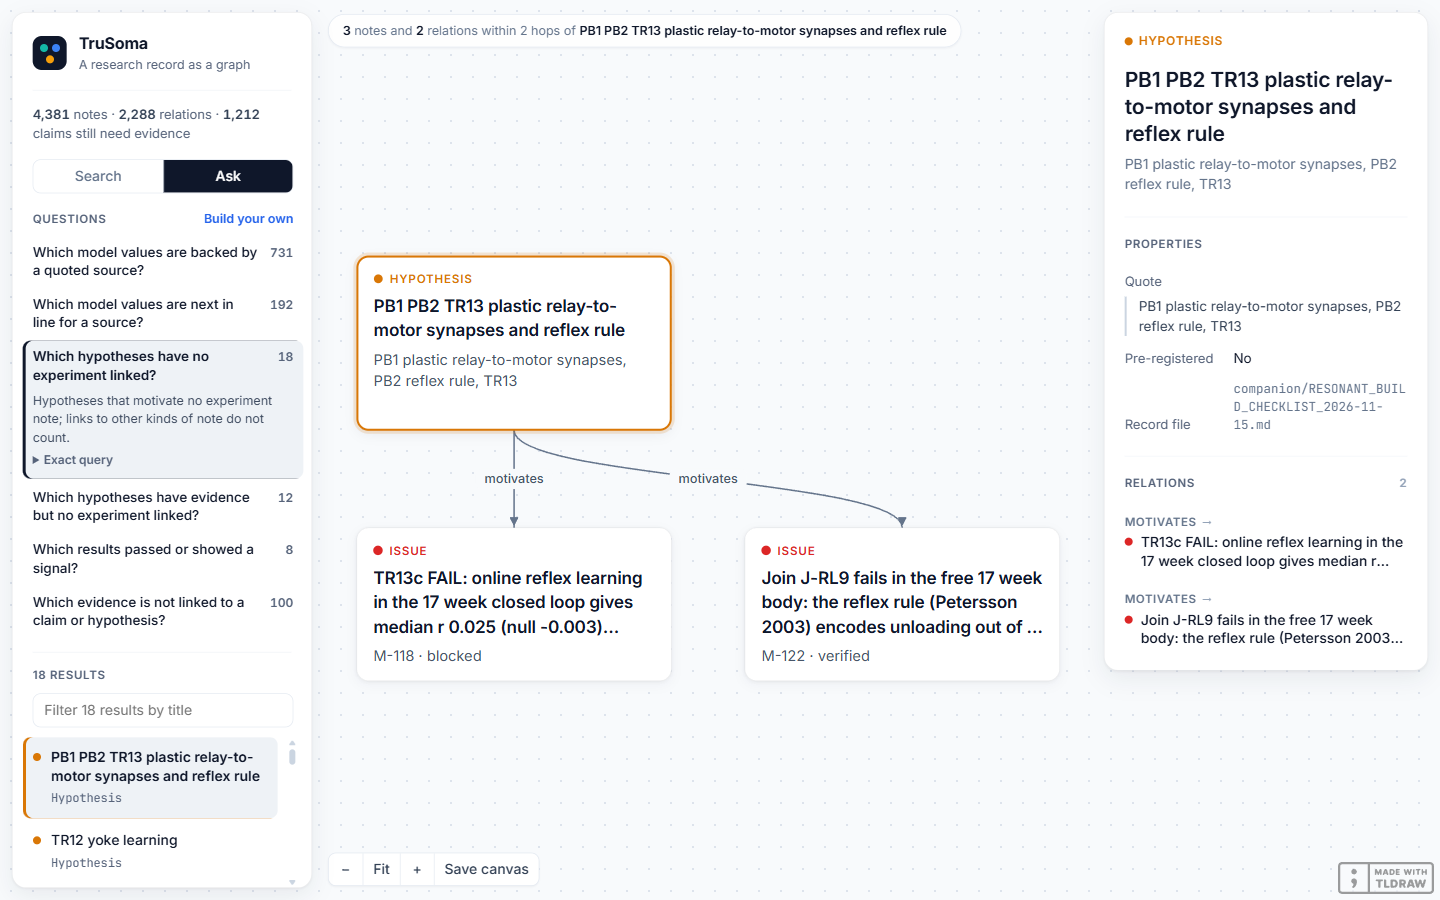
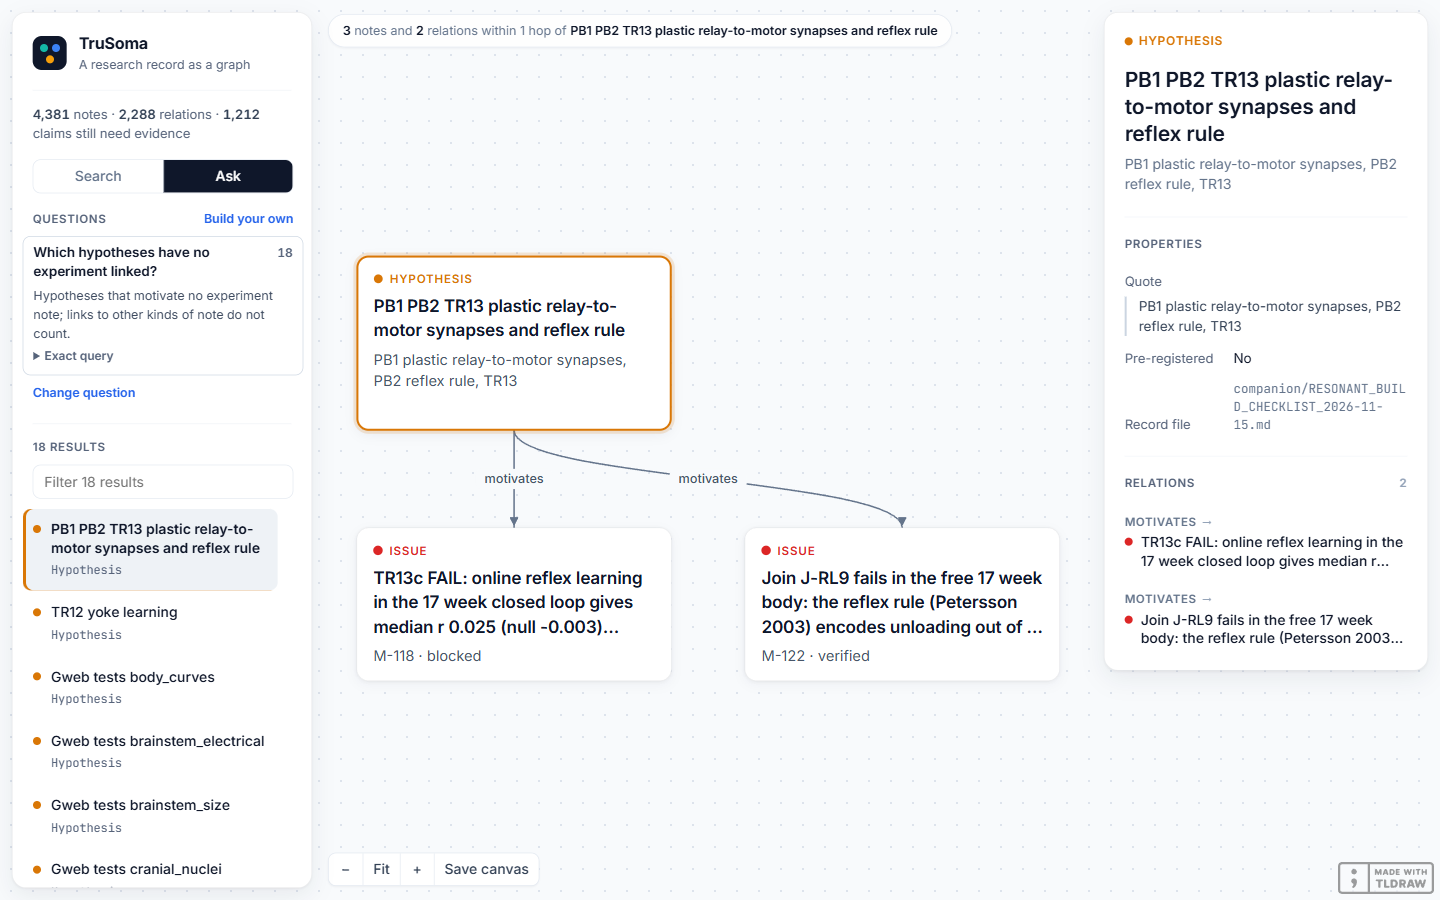
Ask: list folds to the active question; labelled builder; wider filter

Changed region(s): [[0.0, 0.2489, 0.1875, 0.7156], [0.0, 0.7467, 0.1875, 0.9956], [0.375, 0.0311, 0.6562, 0.0622]]

diff --git a/demo/apps/canvas/src/Ask.tsx b/demo/apps/canvas/src/Ask.tsx
@@ -2,7 +2,7 @@
  * Questions over the graph: preset ones, and one the reader builds from the grammar ("find notes of a type that have, or lack, a relation to or from a type").
  * Every question is a Query run by packages/graph/src/query.ts; the active preset states in one sentence exactly what it asks, and the builder's controls read as that sentence.
  */
-import type { ReactNode } from "react";
+import { useState, type ReactNode } from "react";
 import {
   describeQuery,
   PRESETS,
@@ -45,7 +45,7 @@ const Question = ({
   children?: ReactNode;
 }): JSX.Element => (
   <li
-    className={`rounded-lg ${active ? "bg-[#eef2f6] [box-shadow:inset_3px_0_0_#0f172a]" : "hover:bg-[#f8fafc]"}`}
+    className={`rounded-lg ${active ? "border border-solid border-[#cbd5e1] bg-white" : "border border-solid border-transparent hover:bg-[#f8fafc]"}`}
   >
     <button
       className={`grid w-full grid-cols-[minmax(0,1fr)_auto] items-baseline gap-x-2.5 rounded-lg border-0 bg-transparent px-2.5 py-[7px] text-left text-[13.5px] leading-[1.35] ${active ? "font-semibold" : "font-medium"}`}
@@ -61,29 +61,35 @@ const Question = ({
   </li>
 );
 
+/** One control of the builder: name is the word shown beside it, label the fuller name a screen reader hears. */
 const Pick = ({
+  name,
   label,
   value,
   options,
   onChange,
 }: {
+  name: string;
   label: string;
   value: string;
   options: { value: string; text: string }[];
   onChange: (value: string) => void;
 }): JSX.Element => (
-  <select
-    className={`${TW_SELECT} bg-white`}
-    aria-label={label}
-    value={value}
-    onChange={(e) => onChange(e.target.value)}
-  >
-    {options.map((o) => (
-      <option key={o.value} value={o.value}>
-        {o.text}
-      </option>
-    ))}
-  </select>
+  <label className="grid grid-cols-[4.25rem_minmax(0,1fr)] items-center gap-2">
+    <span className="text-[12px] font-semibold text-[#56637a]">{name}</span>
+    <select
+      className={`${TW_SELECT} bg-white`}
+      aria-label={label}
+      value={value}
+      onChange={(e) => onChange(e.target.value)}
+    >
+      {options.map((o) => (
+        <option key={o.value} value={o.value}>
+          {o.text}
+        </option>
+      ))}
+    </select>
+  </label>
 );
 
 export const Ask = ({
@@ -99,6 +105,10 @@ export const Ask = ({
   relationLabels: string[];
   onAsk: (asked: Asked) => void;
 }): JSX.Element => {
+  // a linked question opens folded to itself, so its answers are in view at once
+  const [open, setOpen] = useState(
+    () => !window.location.hash.startsWith("#ask="),
+  );
   const building = asked.id === CUSTOM;
   const custom = building ? asked.query : DEFAULT_CUSTOM;
   const condition = custom.where[0] ?? FIRST;
@@ -116,30 +126,31 @@ export const Ask = ({
   const picks = (
     <div className="grid gap-1.5" data-testid="builder">
       <Pick
+        name="Find"
         label="Find notes of type"
         value={custom.type}
-        options={nodeTypes.map((t) => ({ value: t, text: `Find ${t} notes` }))}
+        options={nodeTypes.map((t) => ({ value: t, text: `${t} notes` }))}
         onChange={(type) => build({ type })}
       />
       <Pick
+        name="Which"
         label="With or without"
         value={condition.has ? "has" : "has no"}
         options={[
-          { value: "has", text: "that have a relation" },
-          { value: "has no", text: "that have no relation" },
+          { value: "has", text: "have a relation" },
+          { value: "has no", text: "have no relation" },
         ]}
         onChange={(v) => build({ condition: { has: v === "has" } })}
       />
       <Pick
+        name="Relation"
         label="Relation"
         value={condition.relation}
-        options={relationLabels.map((l) => ({
-          value: l,
-          text: `labelled "${l}"`,
-        }))}
+        options={relationLabels.map((l) => ({ value: l, text: l }))}
         onChange={(relation) => build({ condition: { relation } })}
       />
       <Pick
+        name="Direction"
         label="Direction and type of the other note"
         value={`${condition.direction}|${condition.type}`}
         options={(["to", "from"] as const).flatMap((d) =>
@@ -184,27 +195,42 @@ export const Ask = ({
         picks
       ) : (
         <ul className="-mx-2.5 my-0 grid list-none gap-0.5 p-0">
-          {PRESETS.map((preset) => (
-            <Question
-              key={preset.id}
-              label={preset.question}
-              aside={(counts[preset.id] ?? 0).toLocaleString()}
-              active={asked.id === preset.id}
-              onPick={() => onAsk({ id: preset.id, query: preset.query })}
-            >
-              <p className="m-0 text-[12.5px] leading-normal text-[#3d4a5f]">
-                {preset.plain}
-              </p>
-              <details className="mt-1">
-                <summary className="cursor-pointer text-[12px] font-semibold text-[#56637a]">
-                  Exact query
-                </summary>
-                <p className={TW_EXACT} data-testid="asked">
-                  {describeQuery(preset.query)}
+          {PRESETS.filter((preset) => open || preset.id === asked.id).map(
+            (preset) => (
+              <Question
+                key={preset.id}
+                label={preset.question}
+                aside={(counts[preset.id] ?? 0).toLocaleString()}
+                active={asked.id === preset.id}
+                onPick={() => {
+                  setOpen(false);
+                  onAsk({ id: preset.id, query: preset.query });
+                }}
+              >
+                <p className="m-0 text-[12.5px] leading-normal text-[#3d4a5f]">
+                  {preset.plain}
                 </p>
-              </details>
-            </Question>
-          ))}
+                <details className="mt-1">
+                  <summary className="cursor-pointer text-[12px] font-semibold text-[#56637a]">
+                    Exact query
+                  </summary>
+                  <p className={TW_EXACT} data-testid="asked">
+                    {describeQuery(preset.query)}
+                  </p>
+                </details>
+              </Question>
+            ),
+          )}
+          {open ? null : (
+            <li>
+              <button
+                className="text-accent cursor-pointer border-0 bg-transparent px-2.5 py-1.5 text-[12.5px] font-semibold hover:underline"
+                onClick={() => setOpen(true)}
+              >
+                Change question
+              </button>
+            </li>
+          )}
         </ul>
       )}
     </div>

diff --git a/demo/apps/canvas/src/App.tsx b/demo/apps/canvas/src/App.tsx
@@ -575,8 +575,10 @@ export const App = (): JSX.Element => {
     const words = within.toLowerCase().split(/\s+/).filter(Boolean);
     const found = words.length
       ? answers.filter((n) => {
-          const title = n.title.toLowerCase();
-          return words.every((w) => title.includes(w));
+          // the title, and for a value its key and number, since a short title says little on its own
+          const text =
+            `${n.title} ${n.props.key ?? ""} ${n.props.value ?? ""}`.toLowerCase();
+          return words.every((w) => text.includes(w));
         })
       : answers;
     return {
@@ -752,8 +754,8 @@ export const App = (): JSX.Element => {
           {mode === "ask" && results.answers > FILTER_FROM ? (
             <input
               className="border-line -mt-1.5 mr-1 h-[34px] flex-none rounded-lg border border-solid bg-white px-[11px] hover:border-[#cbd5e1]"
-              aria-label="Filter the results by title"
-              placeholder={`Filter ${results.answers.toLocaleString()} results by title`}
+              aria-label="Filter the results"
+              placeholder={`Filter ${results.answers.toLocaleString()} results`}
               value={within}
               onChange={(e) => {
                 setWithin(e.target.value);
